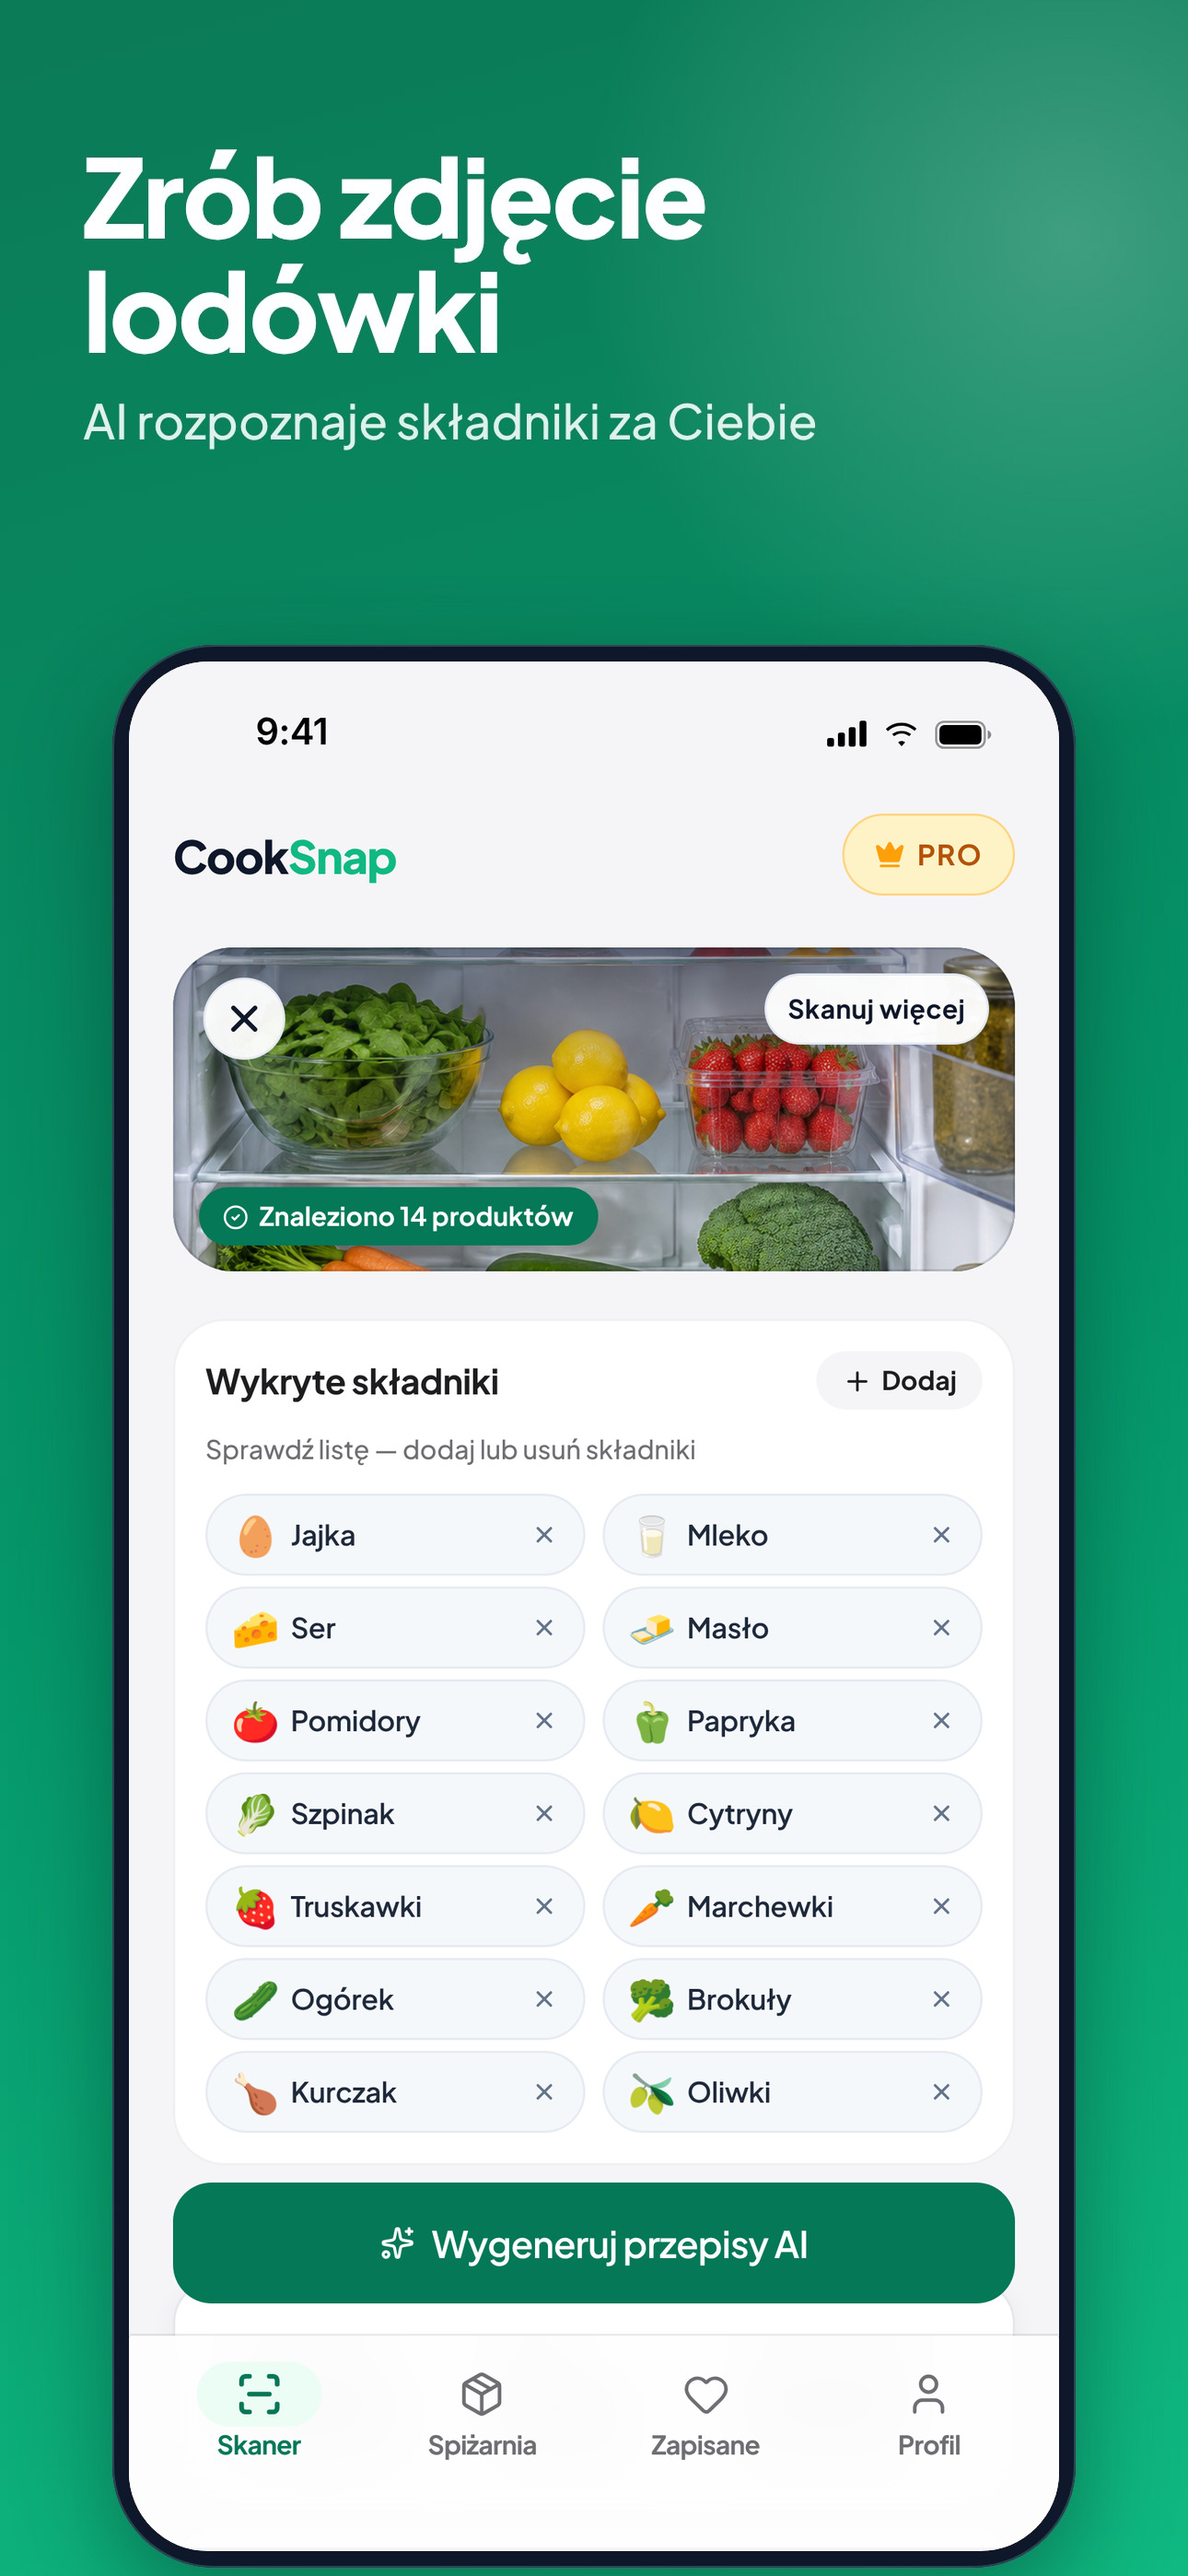
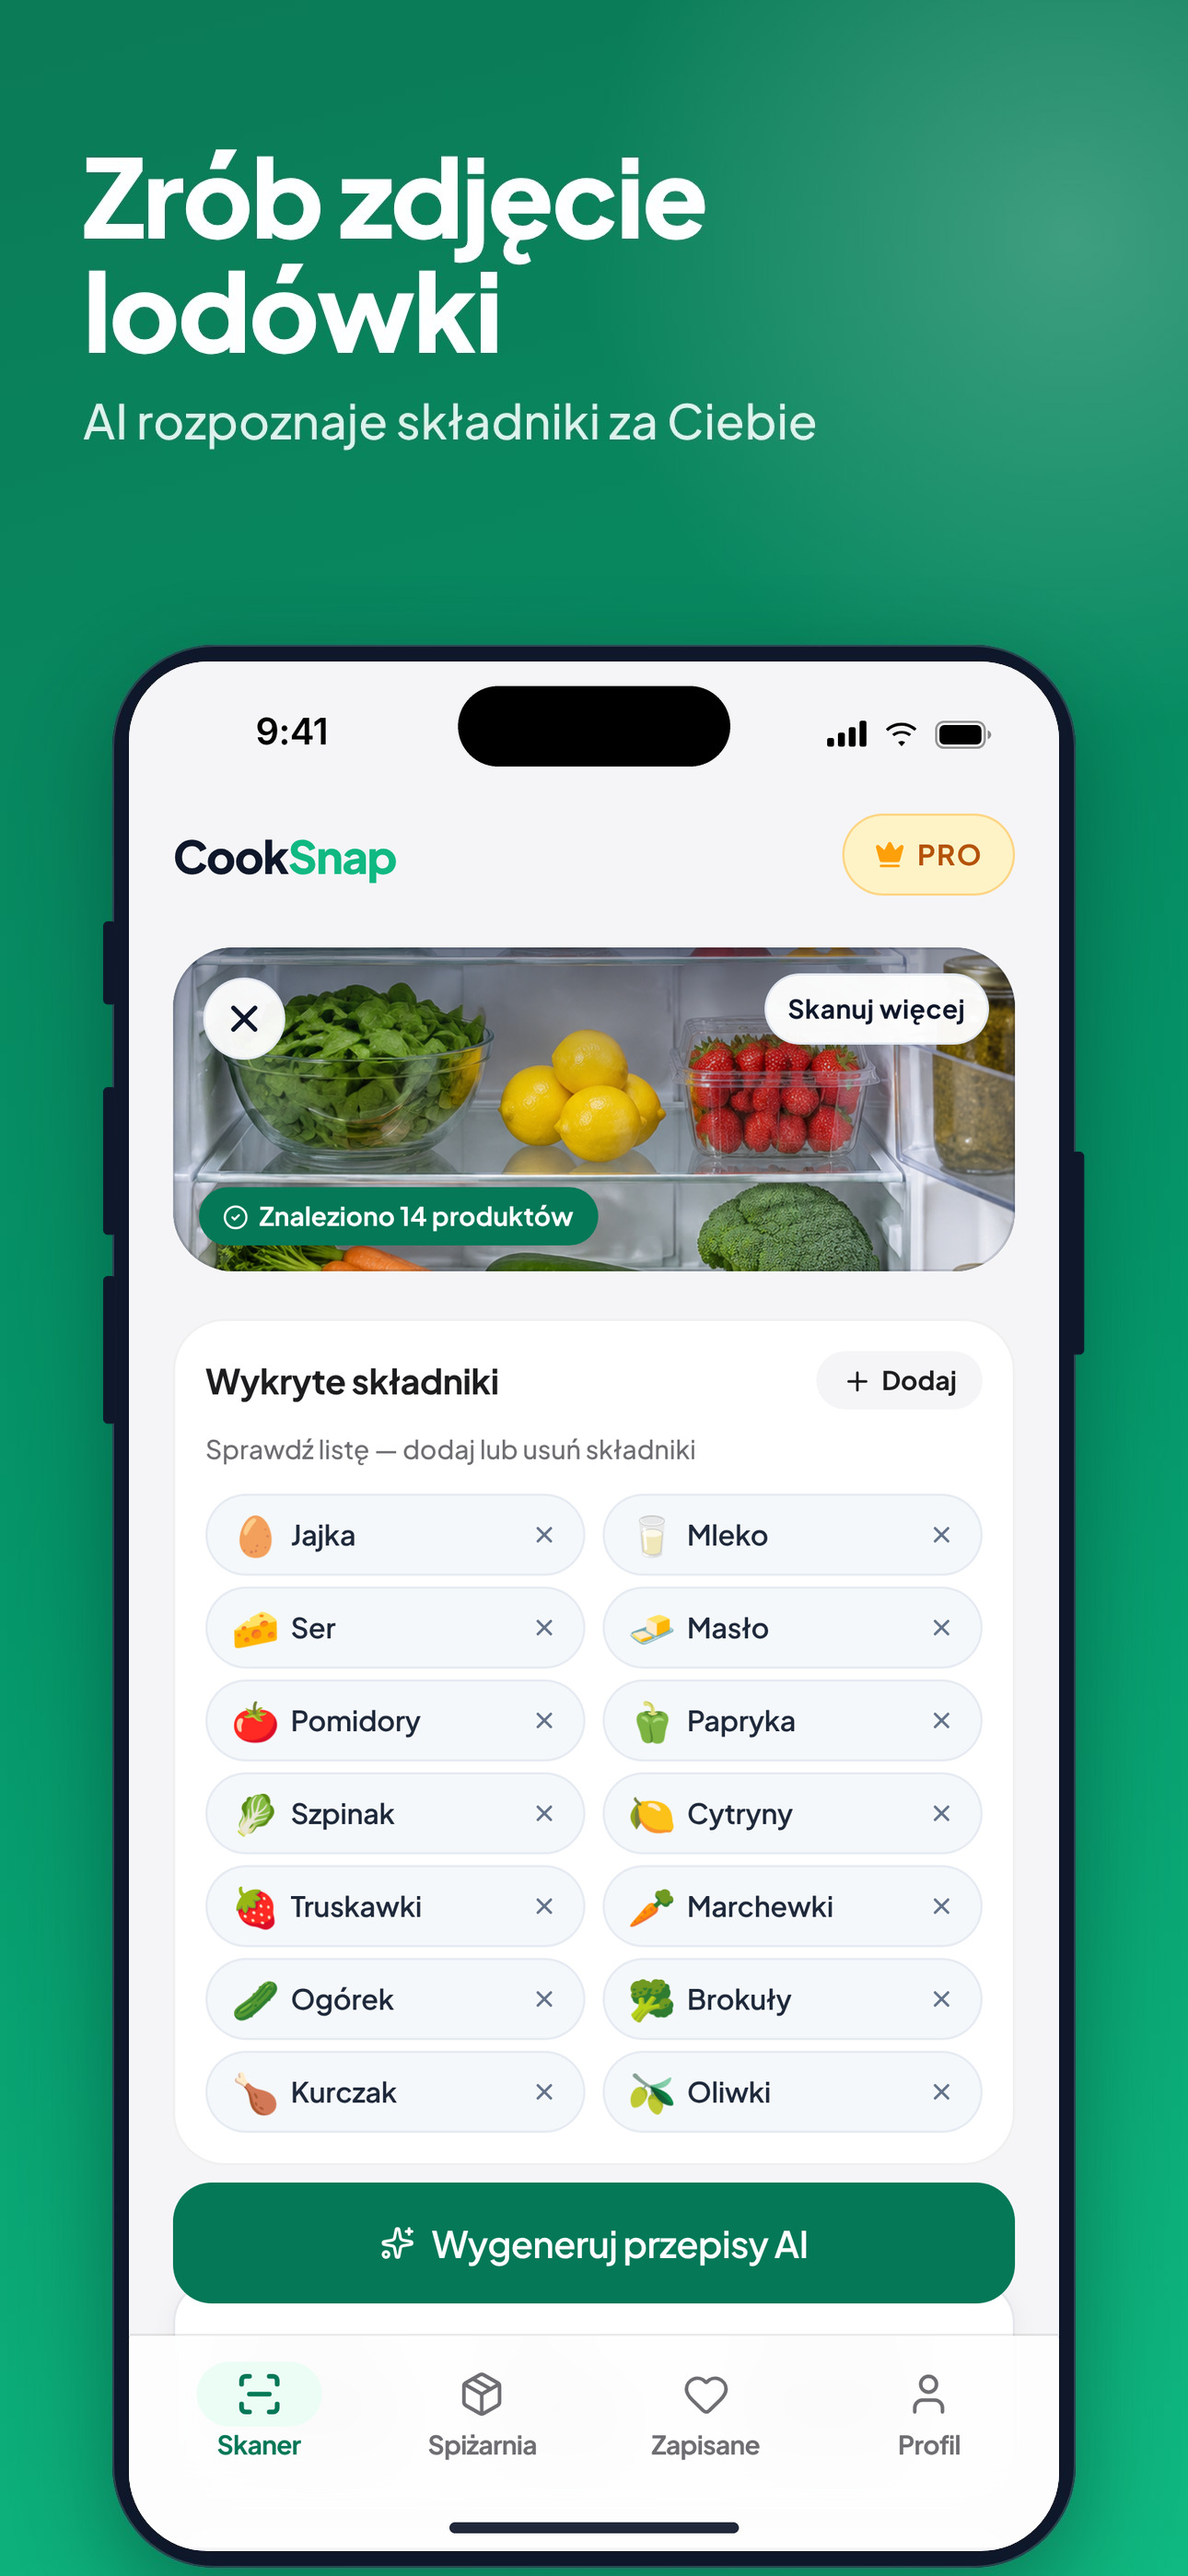
Store slides 01-02: phone now reads as an iPhone (Dynamic Island, home indicator, side buttons)
Claude-Session: https://claude.ai/code/session_01RtbBoobjW7cVhPz1v3aXm1

diff --git a/docs/store/screenshots/tools/compose.py b/docs/store/screenshots/tools/compose.py
@@ -7,7 +7,7 @@ frame's bottom curve is cut off.
 """
 import sys
 import numpy as np
-from PIL import Image
+from PIL import Image, ImageDraw
 from scipy import ndimage as ndi
 
 tpl_path, cap_path, out_path = sys.argv[1:4]
@@ -23,6 +23,8 @@ ring = lab == lab[row, xs[0]]                   # the frame: dark pixels connect
 lab2, _ = ndi.label(~ring)
 inner = lab2 == lab2[row, W // 2]               # everything the frame encloses
 inner = ndi.binary_erosion(inner, iterations=1) # keep the frame's anti-aliased edge intact
+ry, rx = np.where(ring)
+ring_x0, ring_x1 = int(rx.min()), int(rx.max())
 ys, xx = np.where(inner)
 x0, x1, y0, y1 = xx.min(), xx.max() + 1, ys.min(), ys.max() + 1
 
@@ -33,5 +35,22 @@ layer = Image.new('RGB', (W, H), (245, 245, 247))
 layer.paste(cap.crop((0, 0, cap.width, min(cap.height, y1 - y0))), (x0, y0))
 mask = Image.fromarray((inner * 255).astype(np.uint8), 'L')
 tpl.paste(layer, (0, 0), mask)
+
+# Make the phone read as a modern iPhone: Dynamic Island, home indicator and side buttons (generic shapes, no brand marks).
+SS = 3
+ov = Image.new('RGBA', (W * SS, H * SS), (0, 0, 0, 0))
+d = ImageDraw.Draw(ov)
+ppt = (x1 - x0) / 430.0                          # slide pixels per phone point
+cx = (x0 + x1) / 2
+box = lambda a, b, c, e, r, fill: d.rounded_rectangle((a * SS, b * SS, c * SS, e * SS), radius=r * SS, fill=fill)
+box(cx - 63 * ppt, y0 + 11 * ppt, cx + 63 * ppt, y0 + 48 * ppt, 18.5 * ppt, (0, 0, 0, 255))              # Dynamic Island 126 x 37 pt
+box(cx - 67 * ppt, y1 - 13 * ppt, cx + 67 * ppt, y1 - 8 * ppt, 2.5 * ppt, (15, 23, 42, 235))               # home indicator 134 x 5 pt
+rx0, rx1 = ys.min(), ys.max()
+fx0, fx1 = int(x0 - (x0 - ring_x0)), int(ring_x1)
+for a, b in ((1000, 1090), (1180, 1340), (1385, 1545)):                                                    # action, volume up, volume down
+    box(ring_x0 - 10, a, ring_x0 + 4, b, 5, (15, 23, 42, 255))
+box(ring_x1 - 4, 1250, ring_x1 + 10, 1470, 5, (15, 23, 42, 255))                                           # power
+ov = ov.resize((W, H), Image.LANCZOS)
+tpl = Image.alpha_composite(tpl.convert('RGBA'), ov).convert('RGB')
 tpl.save(out_path, quality=93, subsampling=0)
 print('screen', x0, y0, x1, y1, 'scale', round(scale, 3), '->', out_path)

diff --git a/docs/store/screenshots/README.md b/docs/store/screenshots/README.md
@@ -29,7 +29,7 @@ Known limits, to fix before submitting:
    "Generate AI Recipes", so the recipes are written by the AI through the proxy (PRO state, so the badge reads
    "7 of 8 generations left today"). `scan` shows the "just scanned" screen with the given photo and the 14 ingredients.
    Nothing in the app is changed or faked: the screen is put in its state by writing the app's own saved data.
-3. `python tools/compose.py <current-slide.jpg> out.png <new-slide.jpg>` swaps the screen inside the phone frame and keeps
+3. `python tools/compose.py <old-slide.jpg> capture.png <new-slide.jpg>` swaps the screen inside the phone frame, draws the iPhone details (Dynamic Island, home indicator, side buttons) and keeps
    the green background, caption and frame as they are (1290 x 2796).
 
 Source photo for slide 01: `source/ai-fridge-argolink.png` (AI-generated; keep the prompt, date and the site's terms with it).
